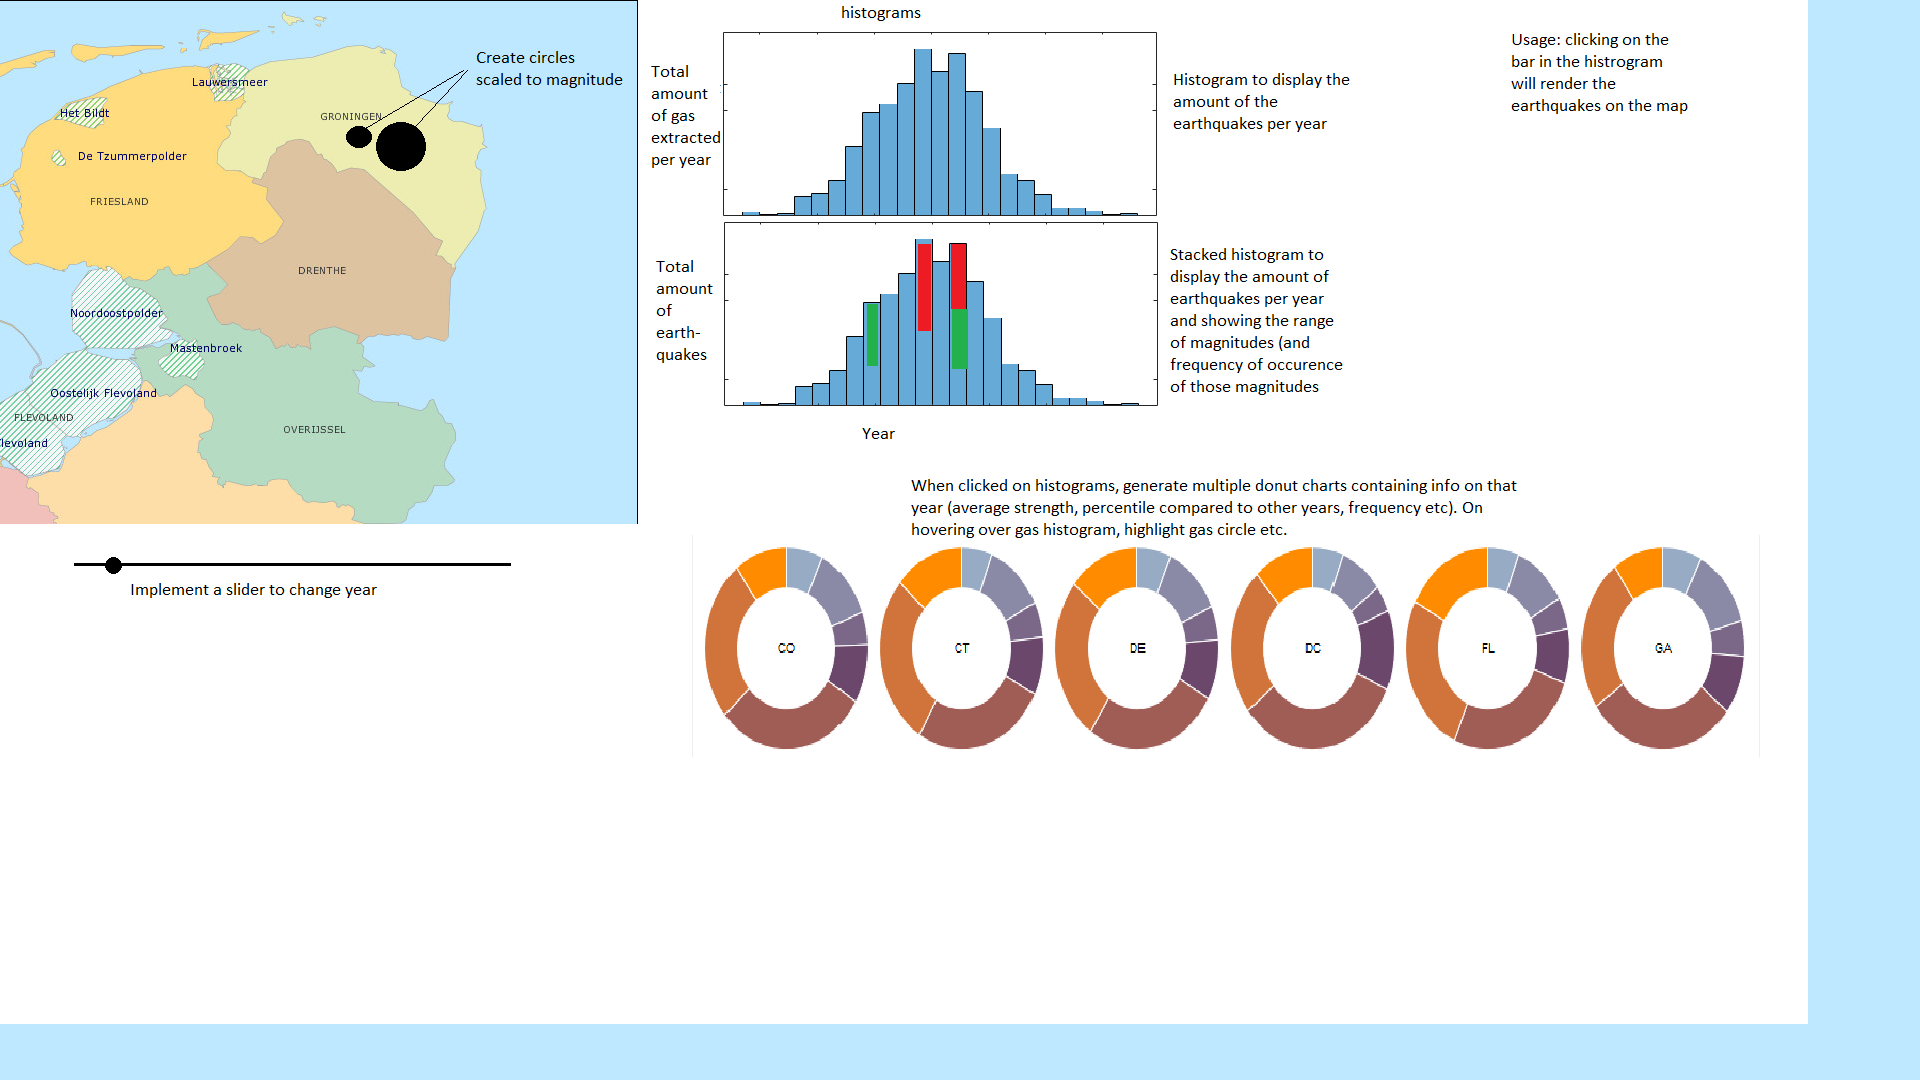
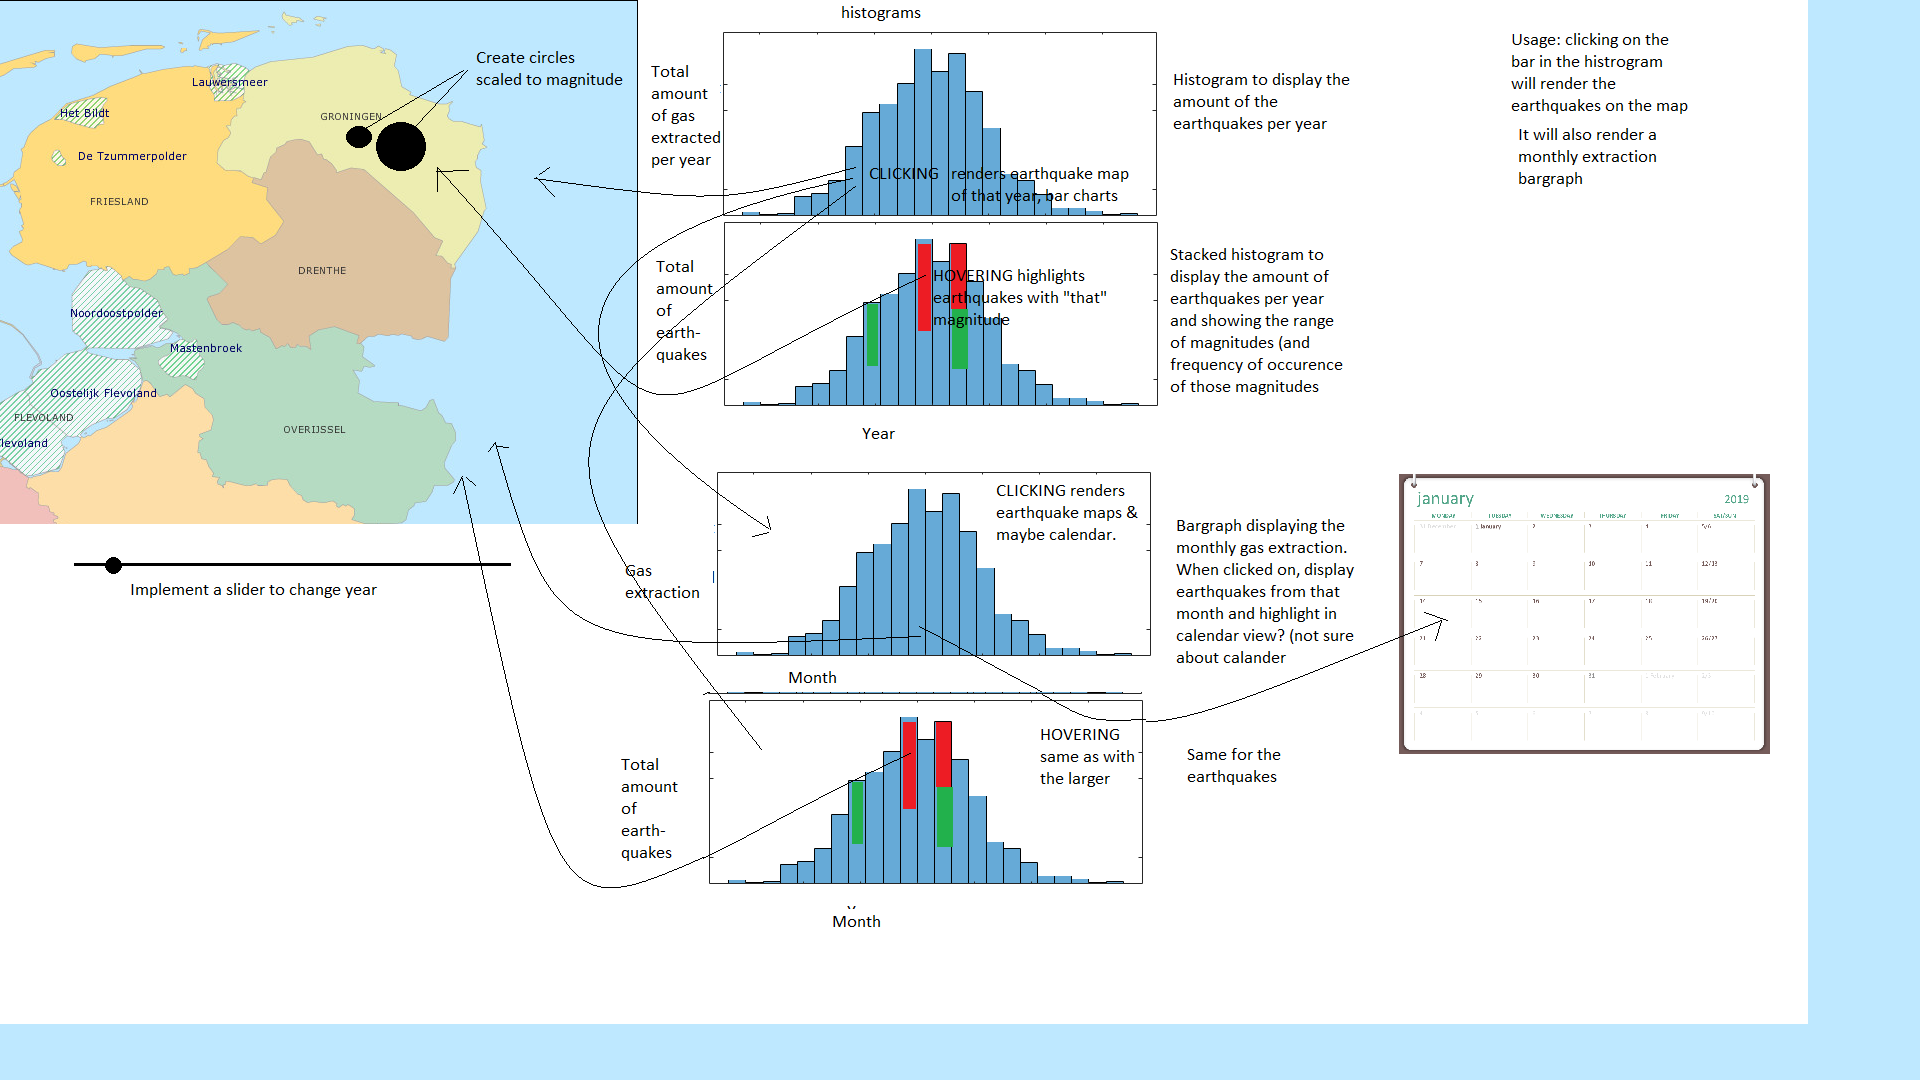
design + readme changed

diff --git a/README.md b/README.md
@@ -32,13 +32,11 @@ Main features:
 - Stacked histogram to clearly show different ranges of magnitudes.
 - Histogram of amount of gas extraction. If clicked on certain year,
   show earthquakes of that year in map.
-- Information of the seismic data, gas extraction and relation to other years
-  in multiple donuts, such as relative strength of average earthquake,
-  percentage of total amount of gas won per year, frequency.
+- Bar charts on the monthly data, for the functionality see the
+  diagram.
 
 2)
 - For the map: hovering over the circles to see the date/strength/radius
-- Hover over histogram to highlight information in donuts
 
 Data Sources:
 KNMI seismic: https://data.knmi.nl/datasets/aardbevingen_catalogus/1?bbox=53.7,7.4,50.6,3.2&dtend=2018-11-24T22:59Z&dtstart=2018-11-17T23:00Z
@@ -46,4 +44,6 @@ NAM gas extraction: https://www.nam.nl/feiten-en-cijfers/gaswinning.html#iframe=
 Wikipedia list of cities/vilages in Netherlands: https://nl.wikipedia.org/wiki/Lijst_van_Nederlandse_plaatsen
 
 external sources: I am not sure on which functionalities I'll require, expect slider, tooltip, pandas.
-hardest parts: making animations when clicking on nice.
+hardest parts: making the interactions between the different
+charts and maps work smoothly (because it are many intertwined
+maps/charts)

diff --git a/DESIGN.md b/DESIGN.md
@@ -22,3 +22,14 @@ both the monthly and yearly totals of gas extraction. Two json
 files were made using this data with excelconverter.py; one
 containing the yearly data of total gas extracted, the other the
 monthly total of extracted gas. Both files were added to the maps folder.
+
+Actual design:
+see diagram.
+
+For the maps I need the geodata of the Netherlands (see maps folder, geodat.geojson)
+for all other components: just the data.
+
+The slider and the calendar are things I might put in, not sure
+yet.
+
+Furthermore I need the d3.tooltip plugin (and one for the slider)
